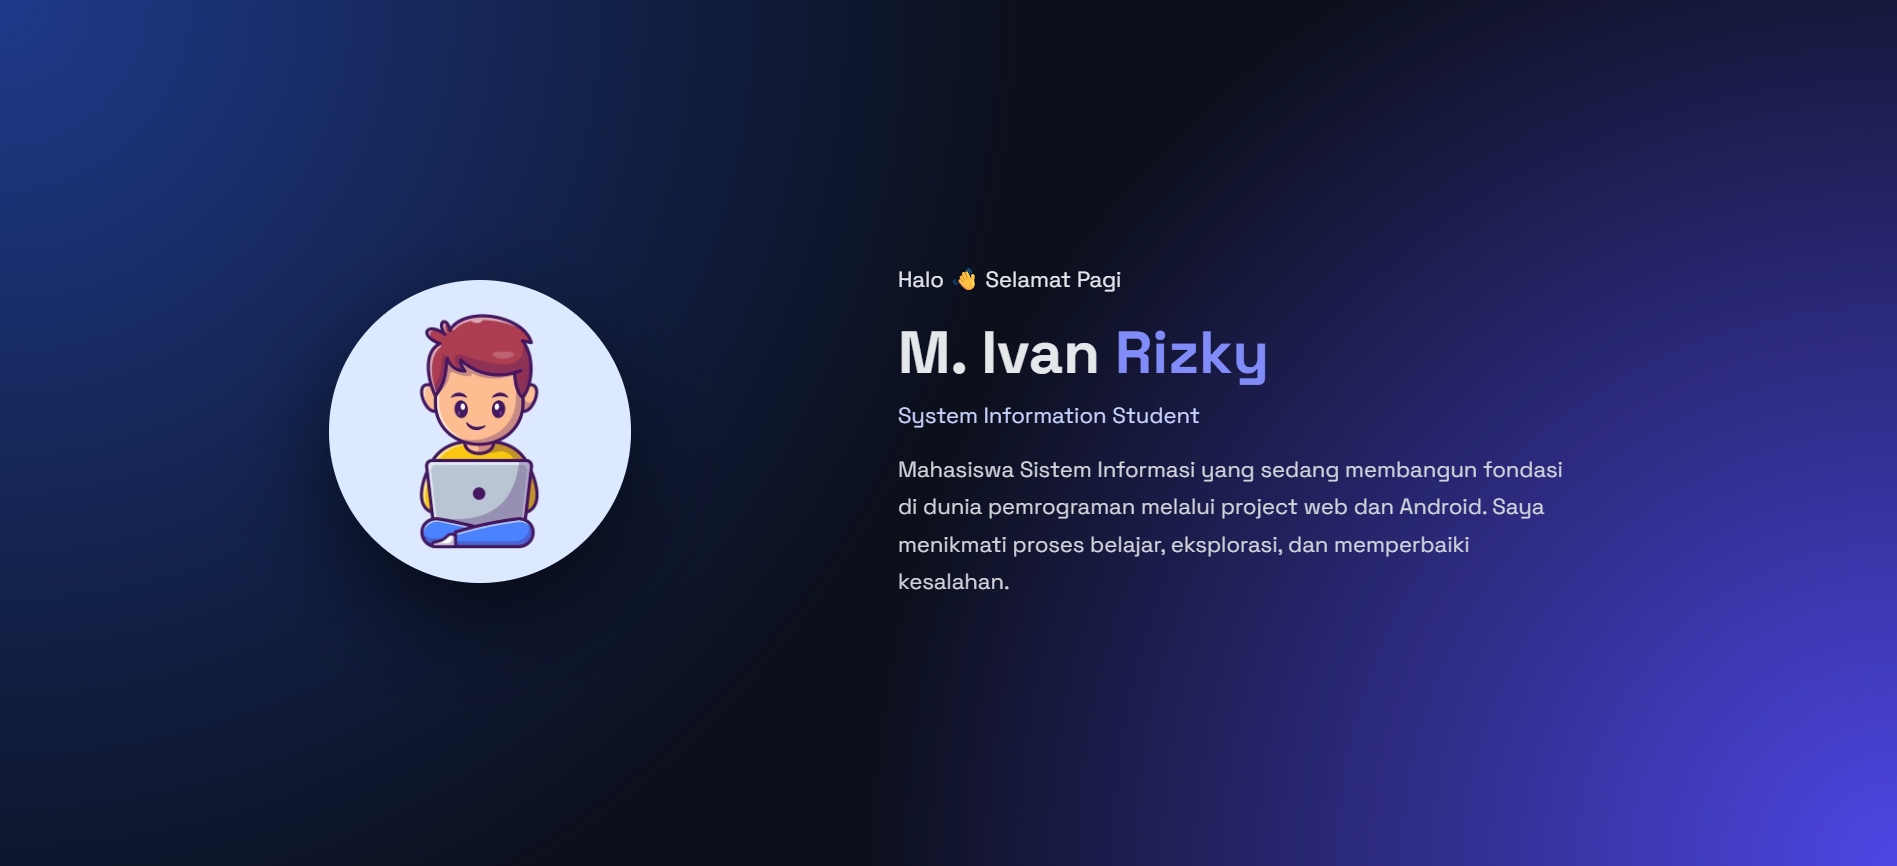
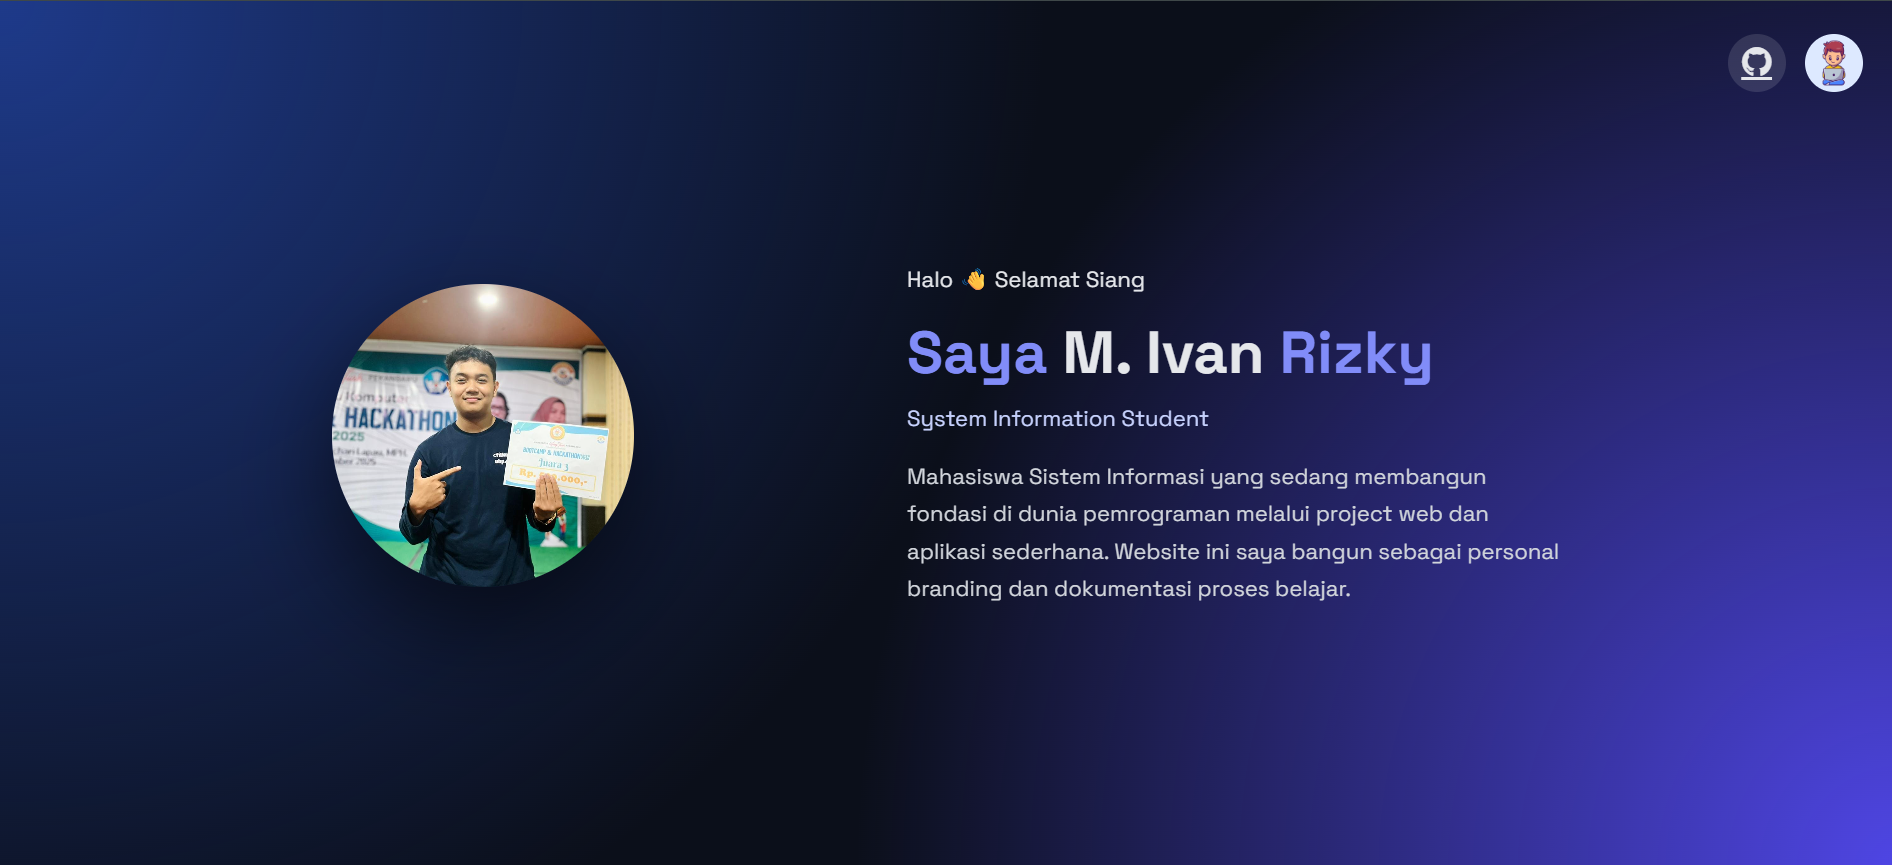
dds

diff --git a/index.html b/index.html
@@ -58,7 +58,7 @@
   <section class="hero">
     <div class="hero-inner reveal">
 
-      <img src="assets/ivanweb.jpeg" class="avatar" alt="Ivan Rizky">
+      <img src="assets/ivanrz.jpeg" class="avatar" alt="Ivan Rizky">
 
       <div class="hero-text">
         <p id="greeting" class="greeting"></p>
